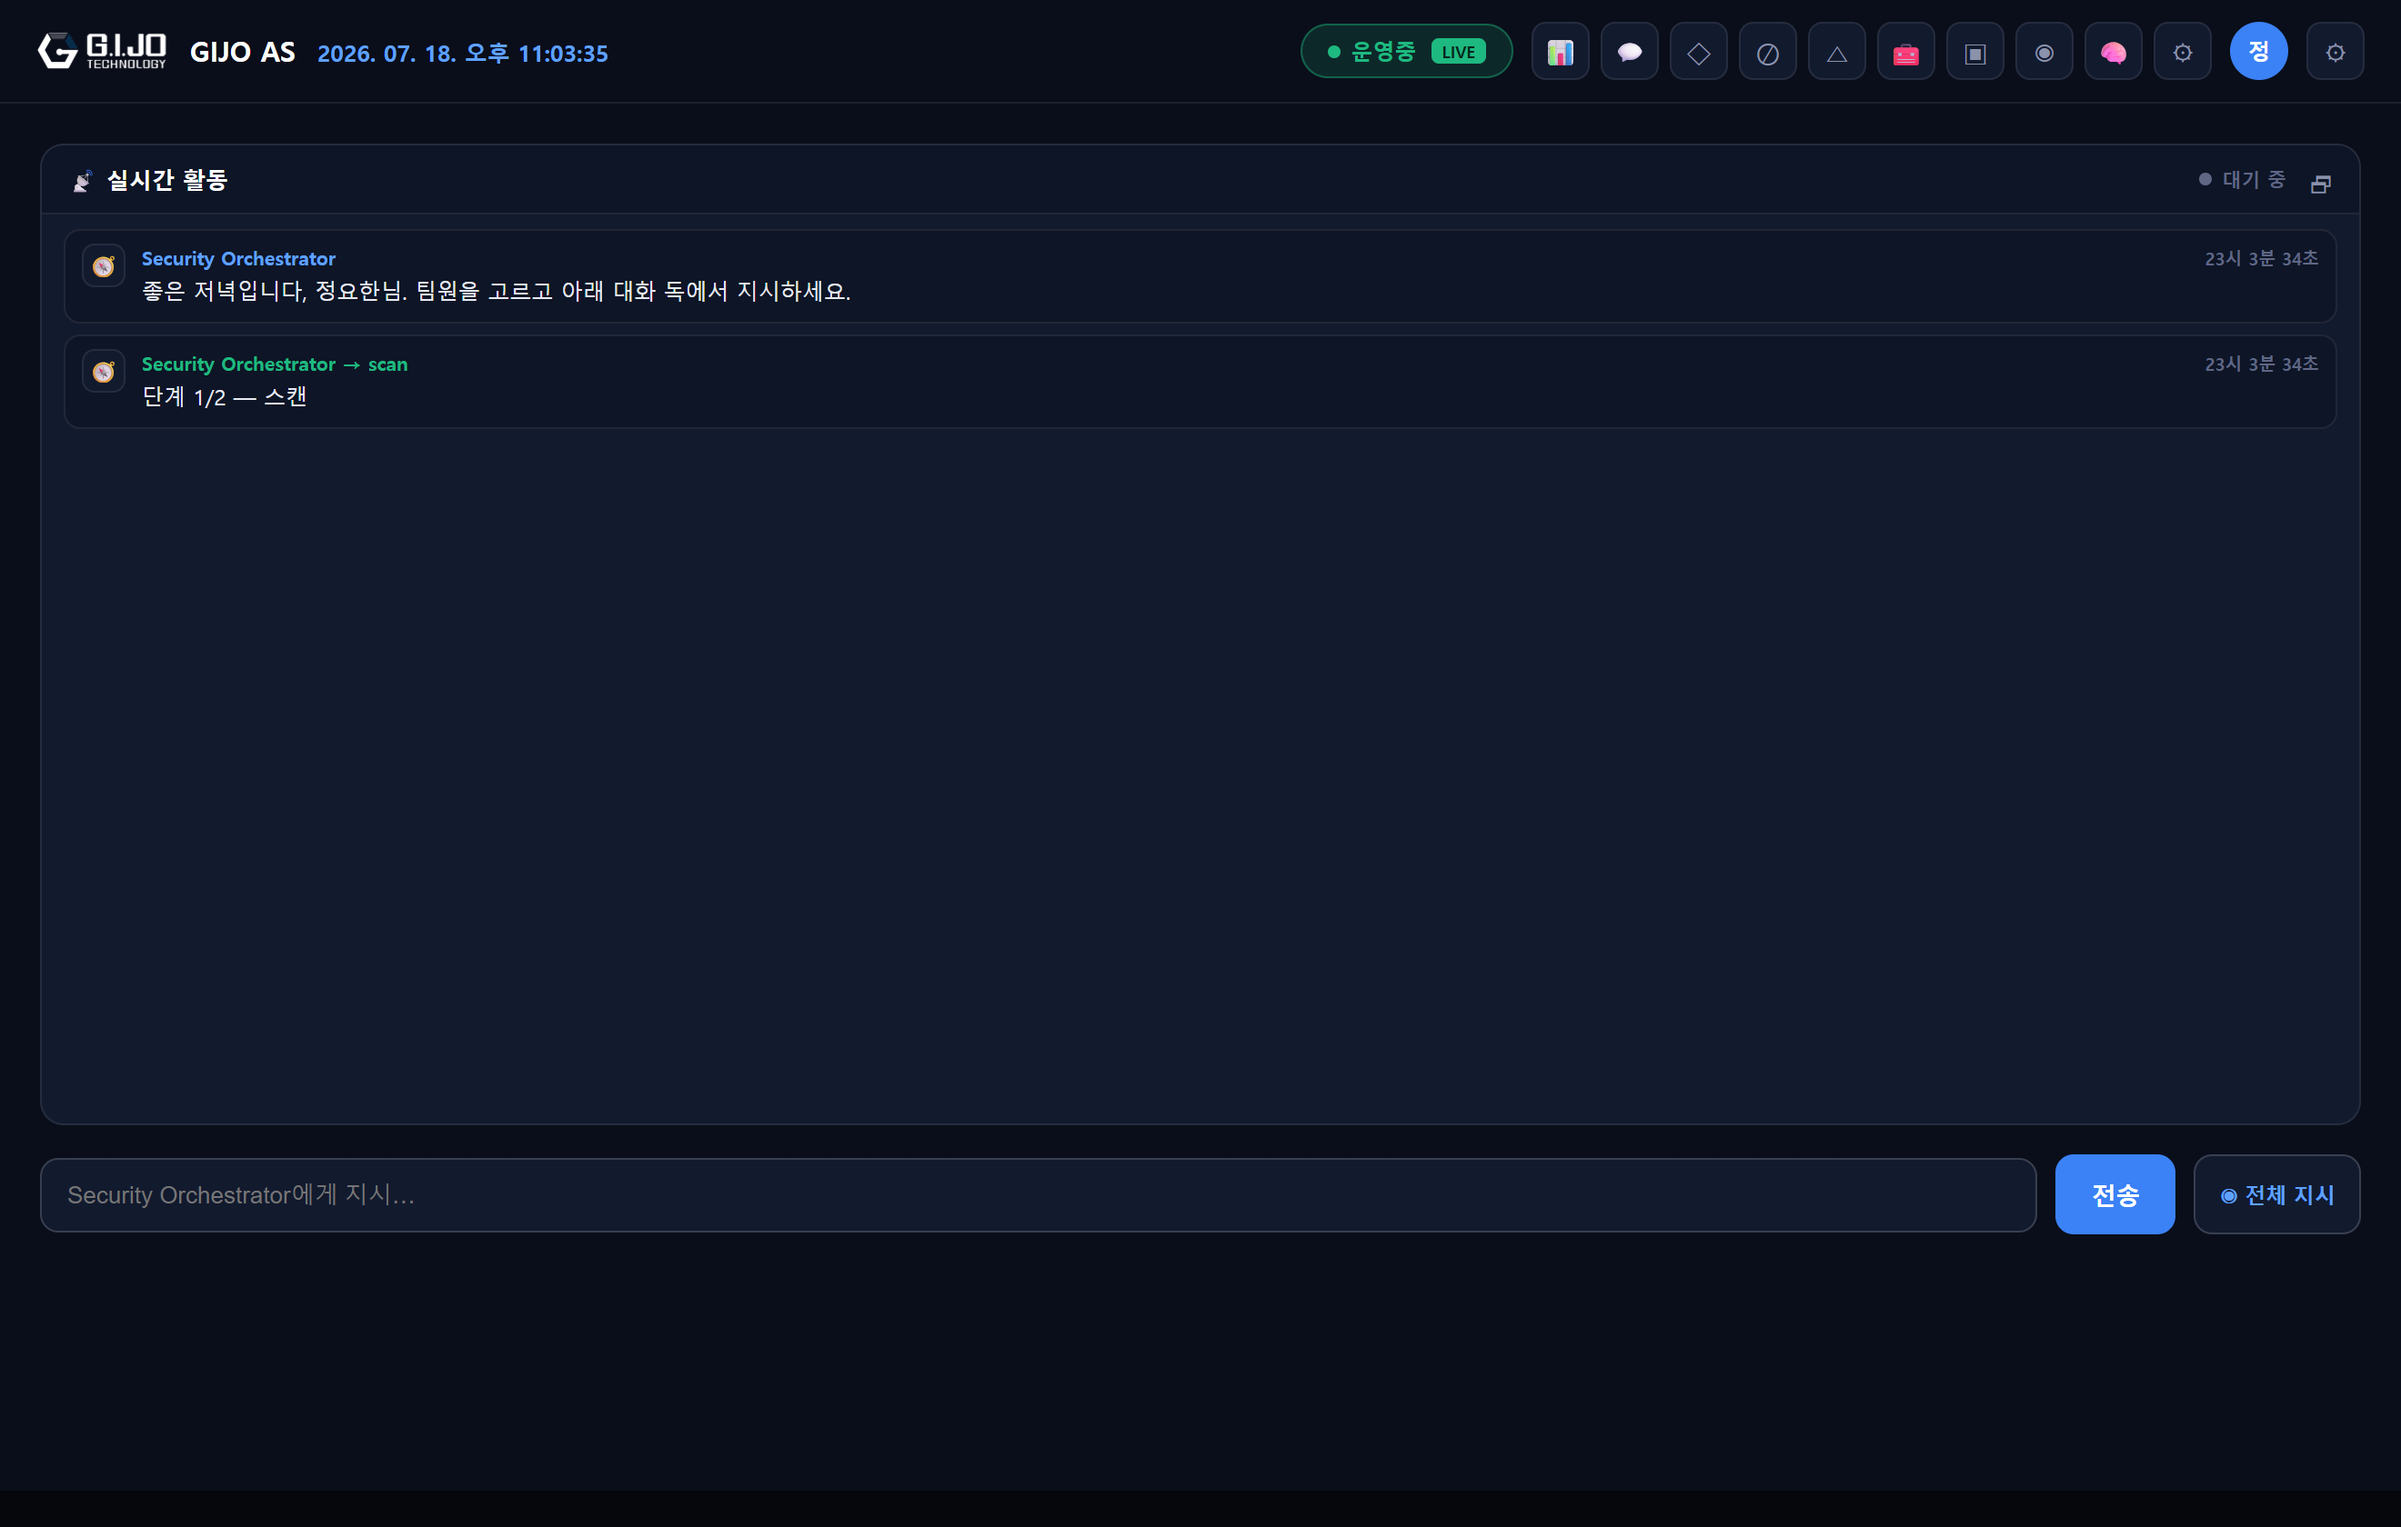
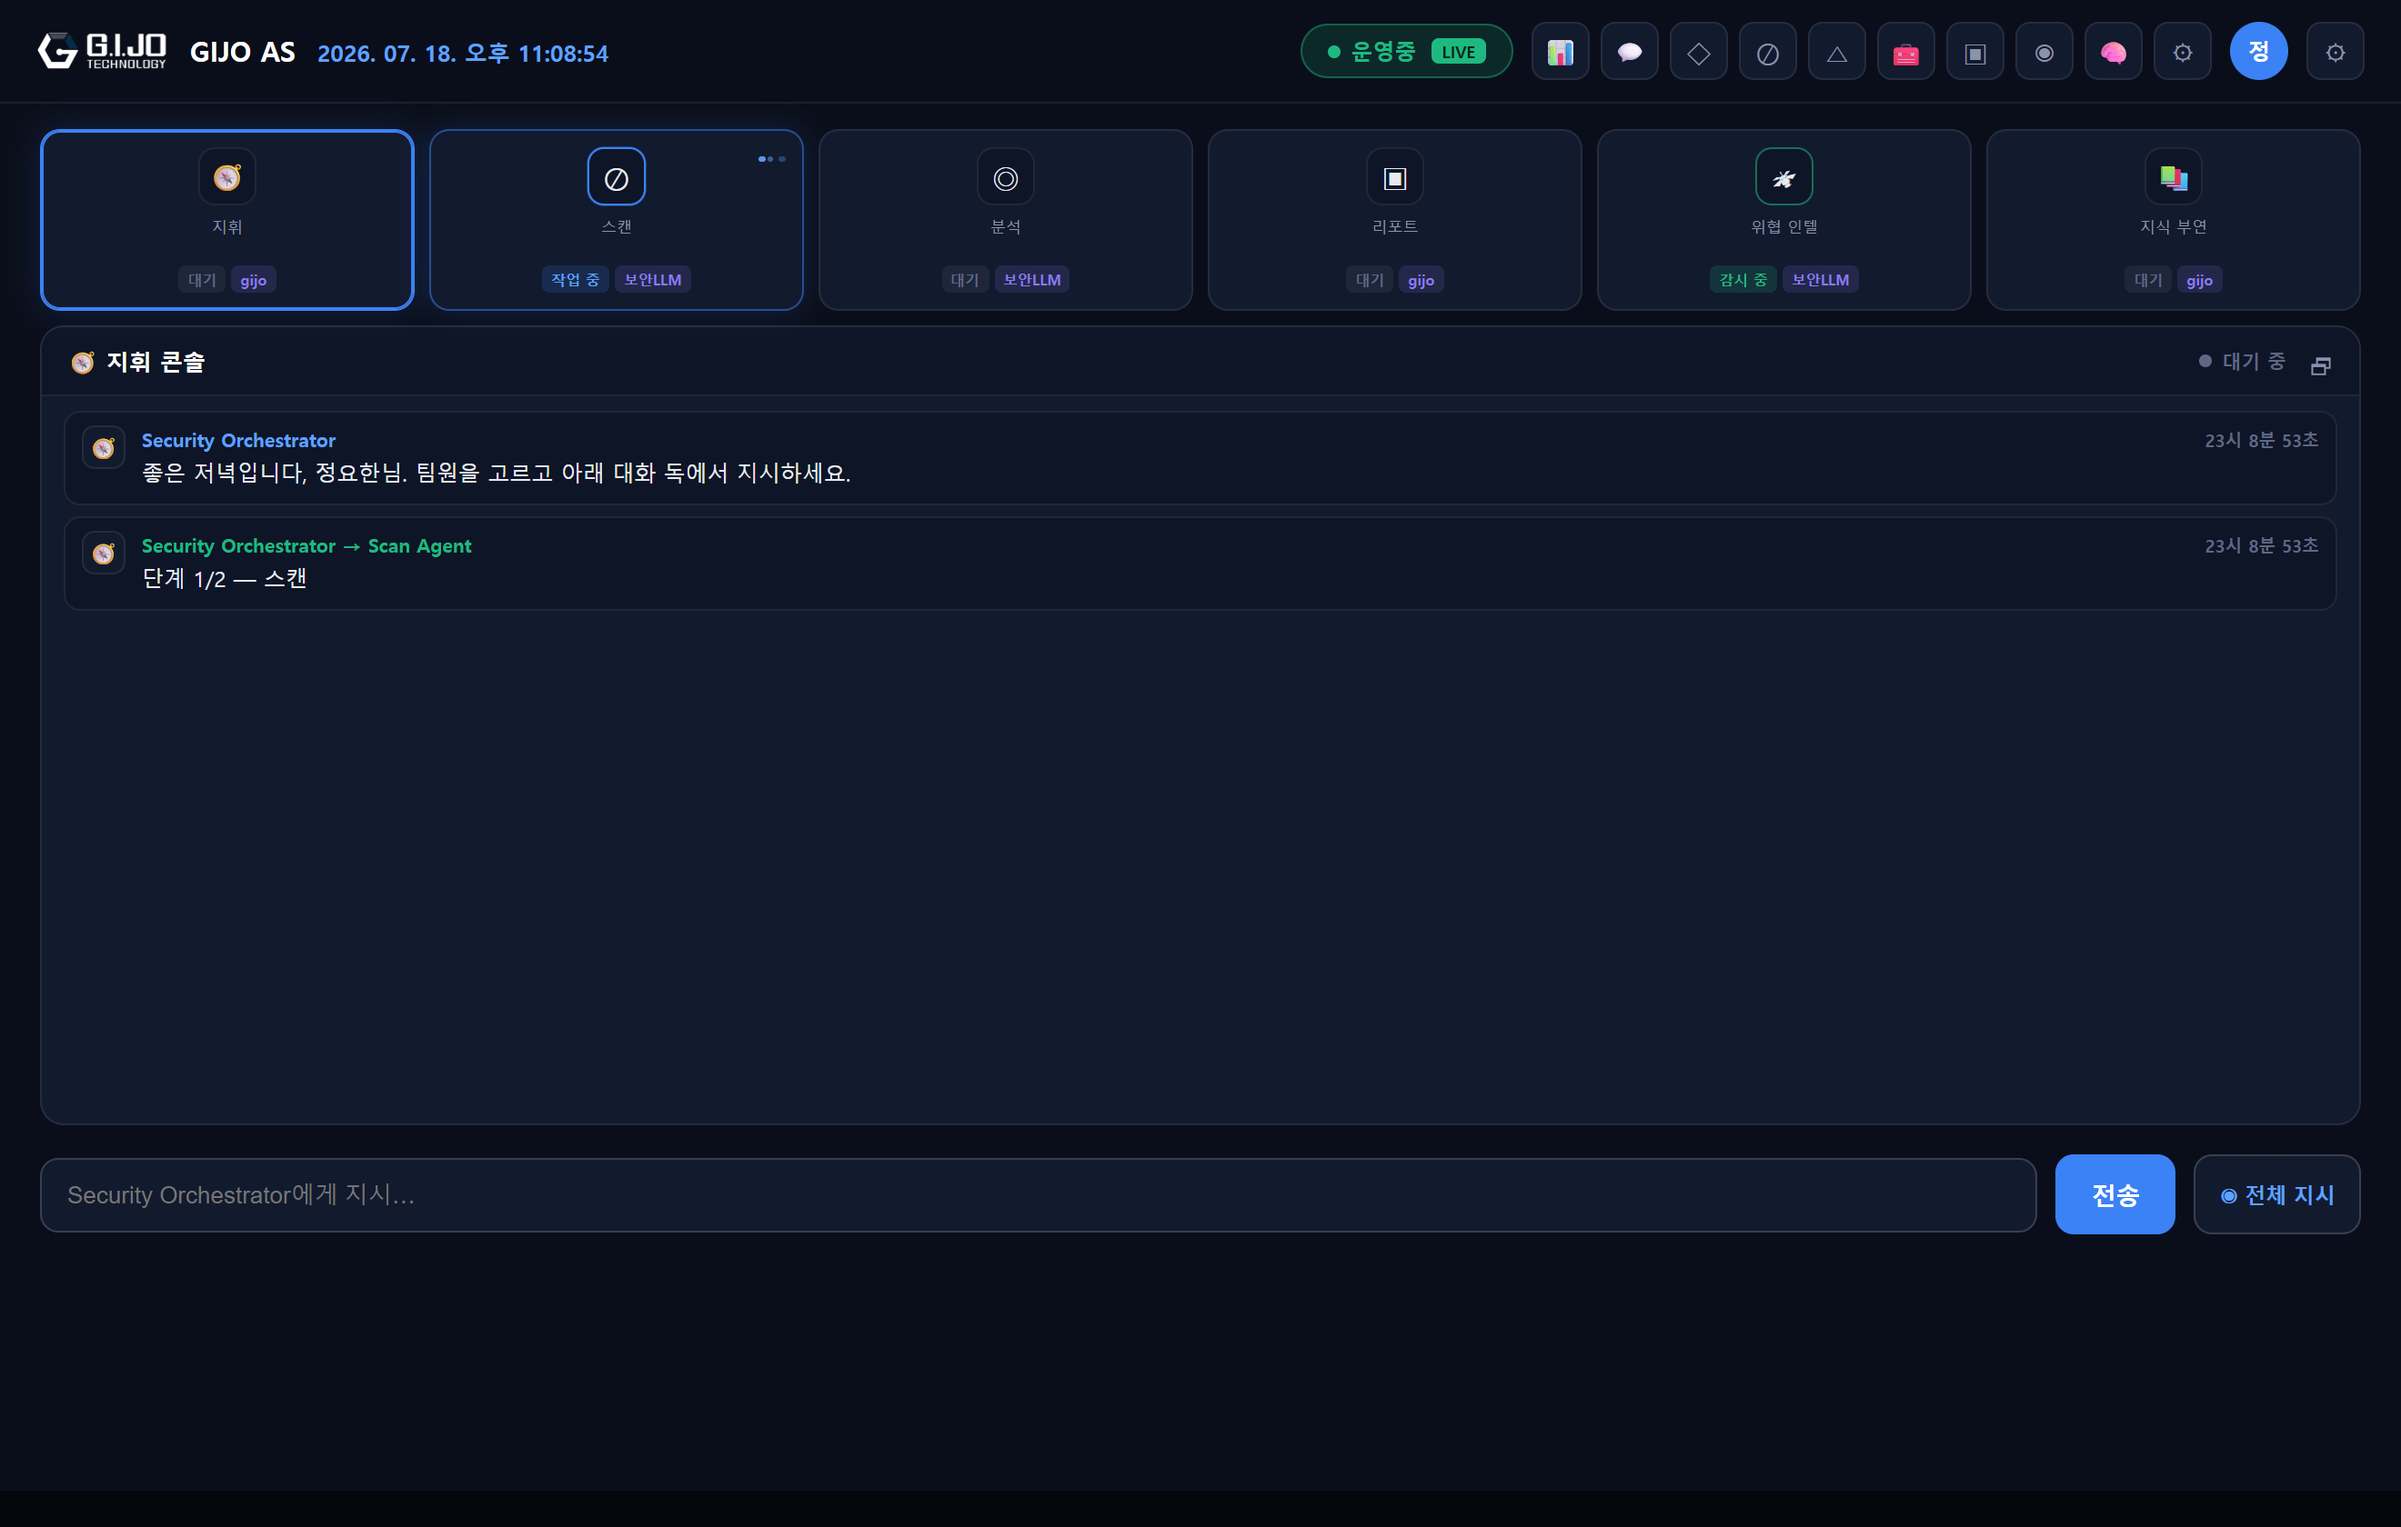
팀 카드 이름없이 복원(작업 상태 확인) + 중앙 콘솔 이름 "지휘 콘솔"
- 팀원 카드 다시 표시하되 이름(tc-name) 제거 → 아이콘·역할·상태 배지만으로 "어떤 에이전트가 작업 중인지" 확인(스캔=작업중 등). 이름은 title 툴팁으로 보존
- 중앙 콘솔 헤더 "📡 실시간 활동" → "🧭 지휘 콘솔"(사용자 선택)
- 실 렌더로 팀카드 상태·이름제거·콘솔명·JS 오류 0 확인

diff --git a/client/src/renderer/pages/dashboard.html b/client/src/renderer/pages/dashboard.html
@@ -238,8 +238,8 @@
   /* 시안3 — 로고 코어 + 팀 카드 그리드 + 하단 대화 독 (AI 에이전트 지휘) */
   .console-caption{font-size:12px;color:var(--muted);margin:2px 0 14px;text-align:center;max-width:560px;}
   /* 6인 로스터가 한 줄에 딱 맞게 — 카드 컴팩트(아바타·글자 축소). */
-  /* 팀원 카드(에이전트 선택)는 대시보드에서 숨김 — 지시 대상은 오케스트레이터 기본. 선택은 AI 어시스턴트 화면. */
-  .team-grid{display:none;}
+  /* 팀원 카드 — 이름 없이 아이콘·역할·상태 배지만(어떤 에이전트가 작업 중인지 한눈에). */
+  .team-grid{display:grid;grid-template-columns:repeat(6,1fr);gap:8px;width:100%;}
   .tcard{background:var(--panel);border:1px solid var(--border);border-radius:11px;padding:9px 5px;text-align:center;cursor:pointer;position:relative;transition:.15s;}
   .tcard:hover{border-color:var(--border-strong);transform:translateY(-2px);}
   .tcard.sel{border-color:var(--blue);box-shadow:0 0 0 1px var(--blue) inset,0 0 18px rgba(59,130,246,.18);}
@@ -416,7 +416,7 @@
       <!-- 실시간 에이전트 협업 — 보안 콘솔 아래. 세션·에이전트 활동이 흐른다. -->
       <div class="collab-live" id="collabLive">
         <div class="cl-head">
-          <span class="cl-title">📡 실시간 활동</span>
+          <span class="cl-title">🧭 지휘 콘솔</span>
           <div style="display:flex;align-items:center;gap:12px">
             <span class="cl-status" id="clStatus"><span class="cl-dot"></span>대기 중</span>
             <span class="cl-expand" id="clExpand" title="콘솔 넓게 보기 (좌우 패널 숨김/복원)">⛶</span>
@@ -1225,8 +1225,9 @@
     const meta = STATUS_META[a.status] || STATUS_META.idle;
     const icon = AGENT_ICON[a.id] || "◆";
     const live = a.status === "working" ? '<div class="tc-live tc-typing"><span></span><span></span><span></span></div>' : "";
-    return `<div class="tcard ${meta.cls}${a.id === currentTarget ? " sel" : ""}" data-agent="${a.id}">${live}` +
-      `<div class="tc-av">${icon}</div><div class="tc-name">${escT(a.name)}</div>` +
+    // 이름(tc-name)은 표시하지 않는다 — 아이콘·역할·상태로 "어떤 에이전트가 작업 중인지"만 본다.
+    return `<div class="tcard ${meta.cls}${a.id === currentTarget ? " sel" : ""}" data-agent="${a.id}" title="${escT(a.name)}">${live}` +
+      `<div class="tc-av">${icon}</div>` +
       `<div class="tc-role">${escT(a.role || "")}</div>` +
       `<div class="tc-badges"><span class="tc-b ${meta.bcls}">${meta.badge}</span><span class="tc-b tc-llm">${escT(llmBadge(a))}</span></div></div>`;
   }
